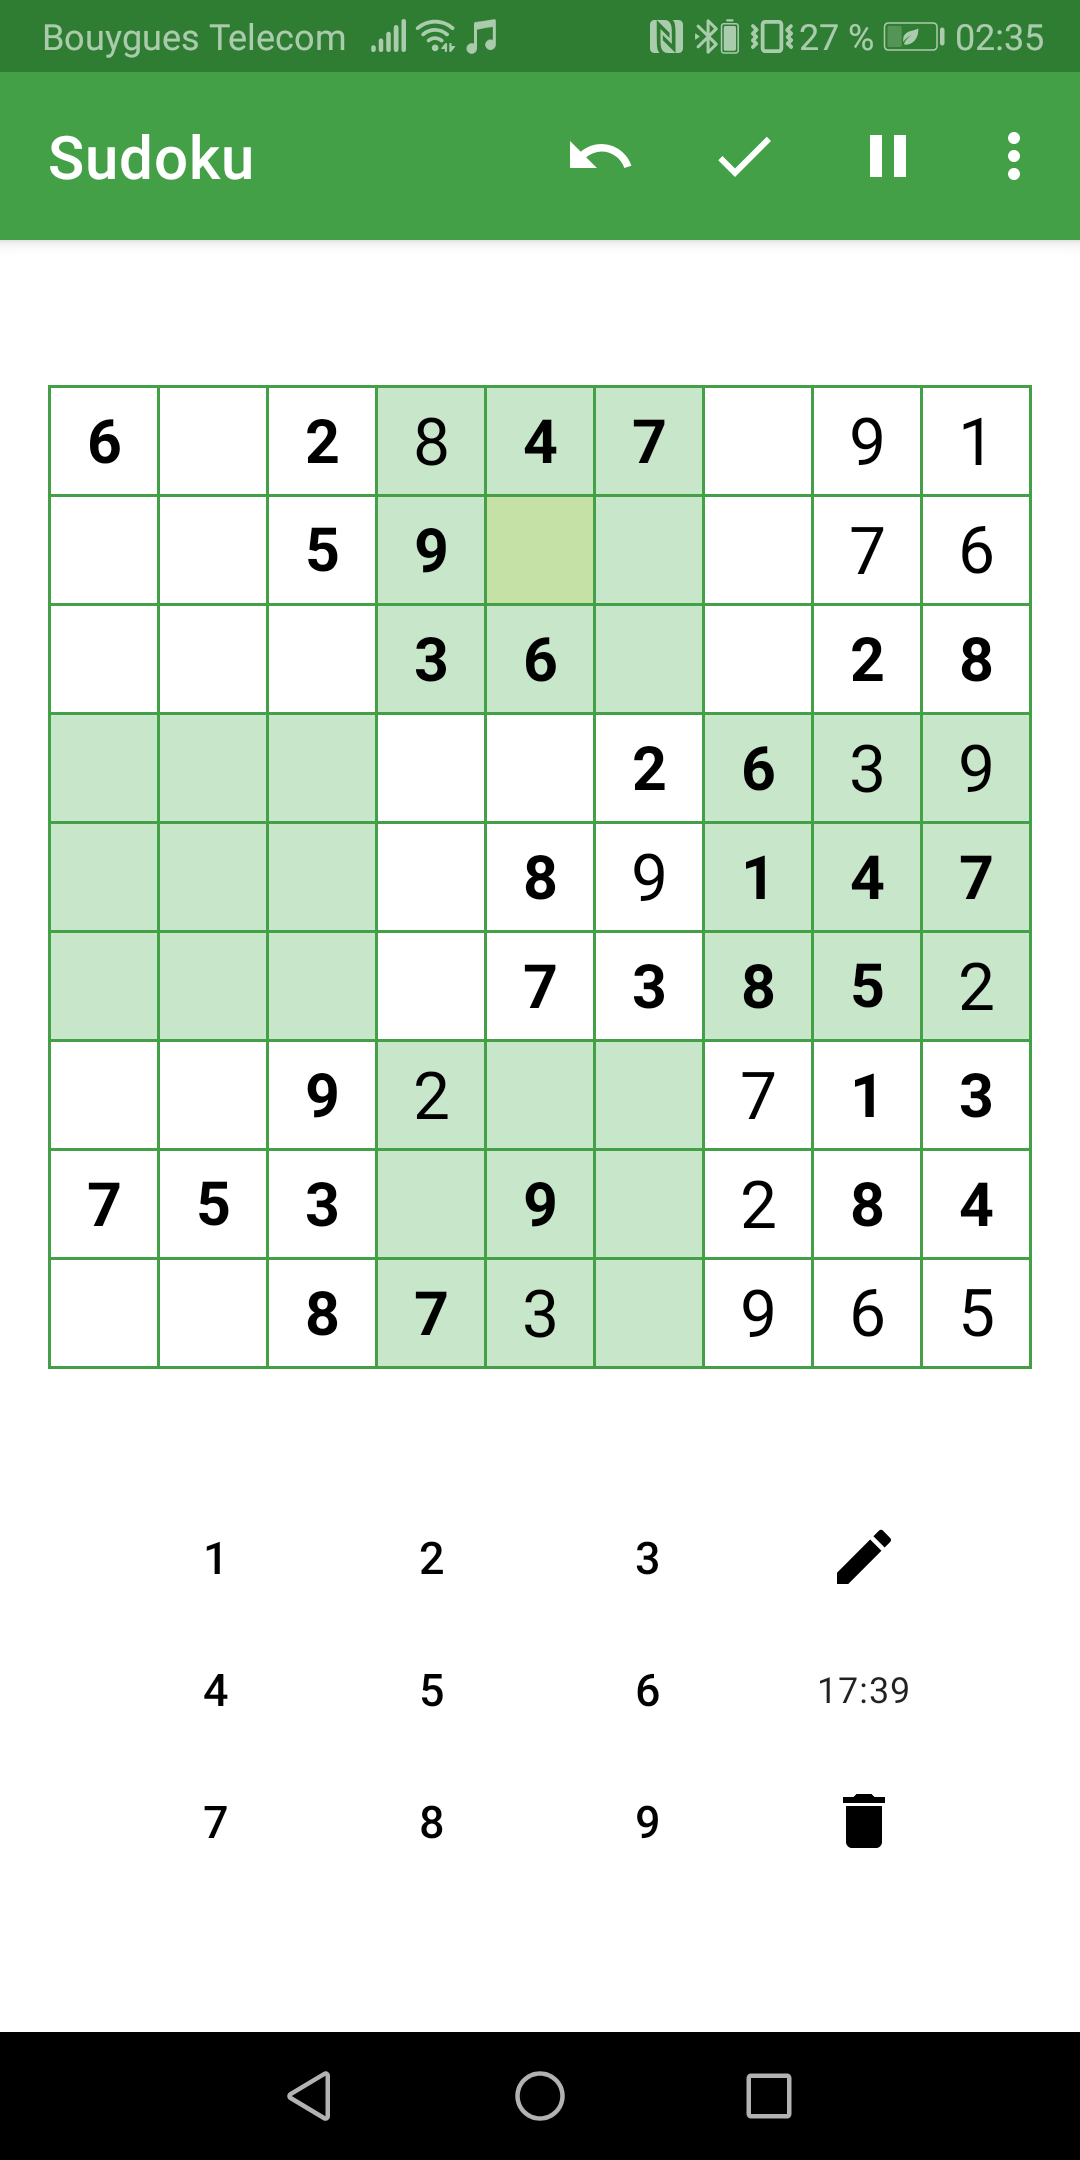
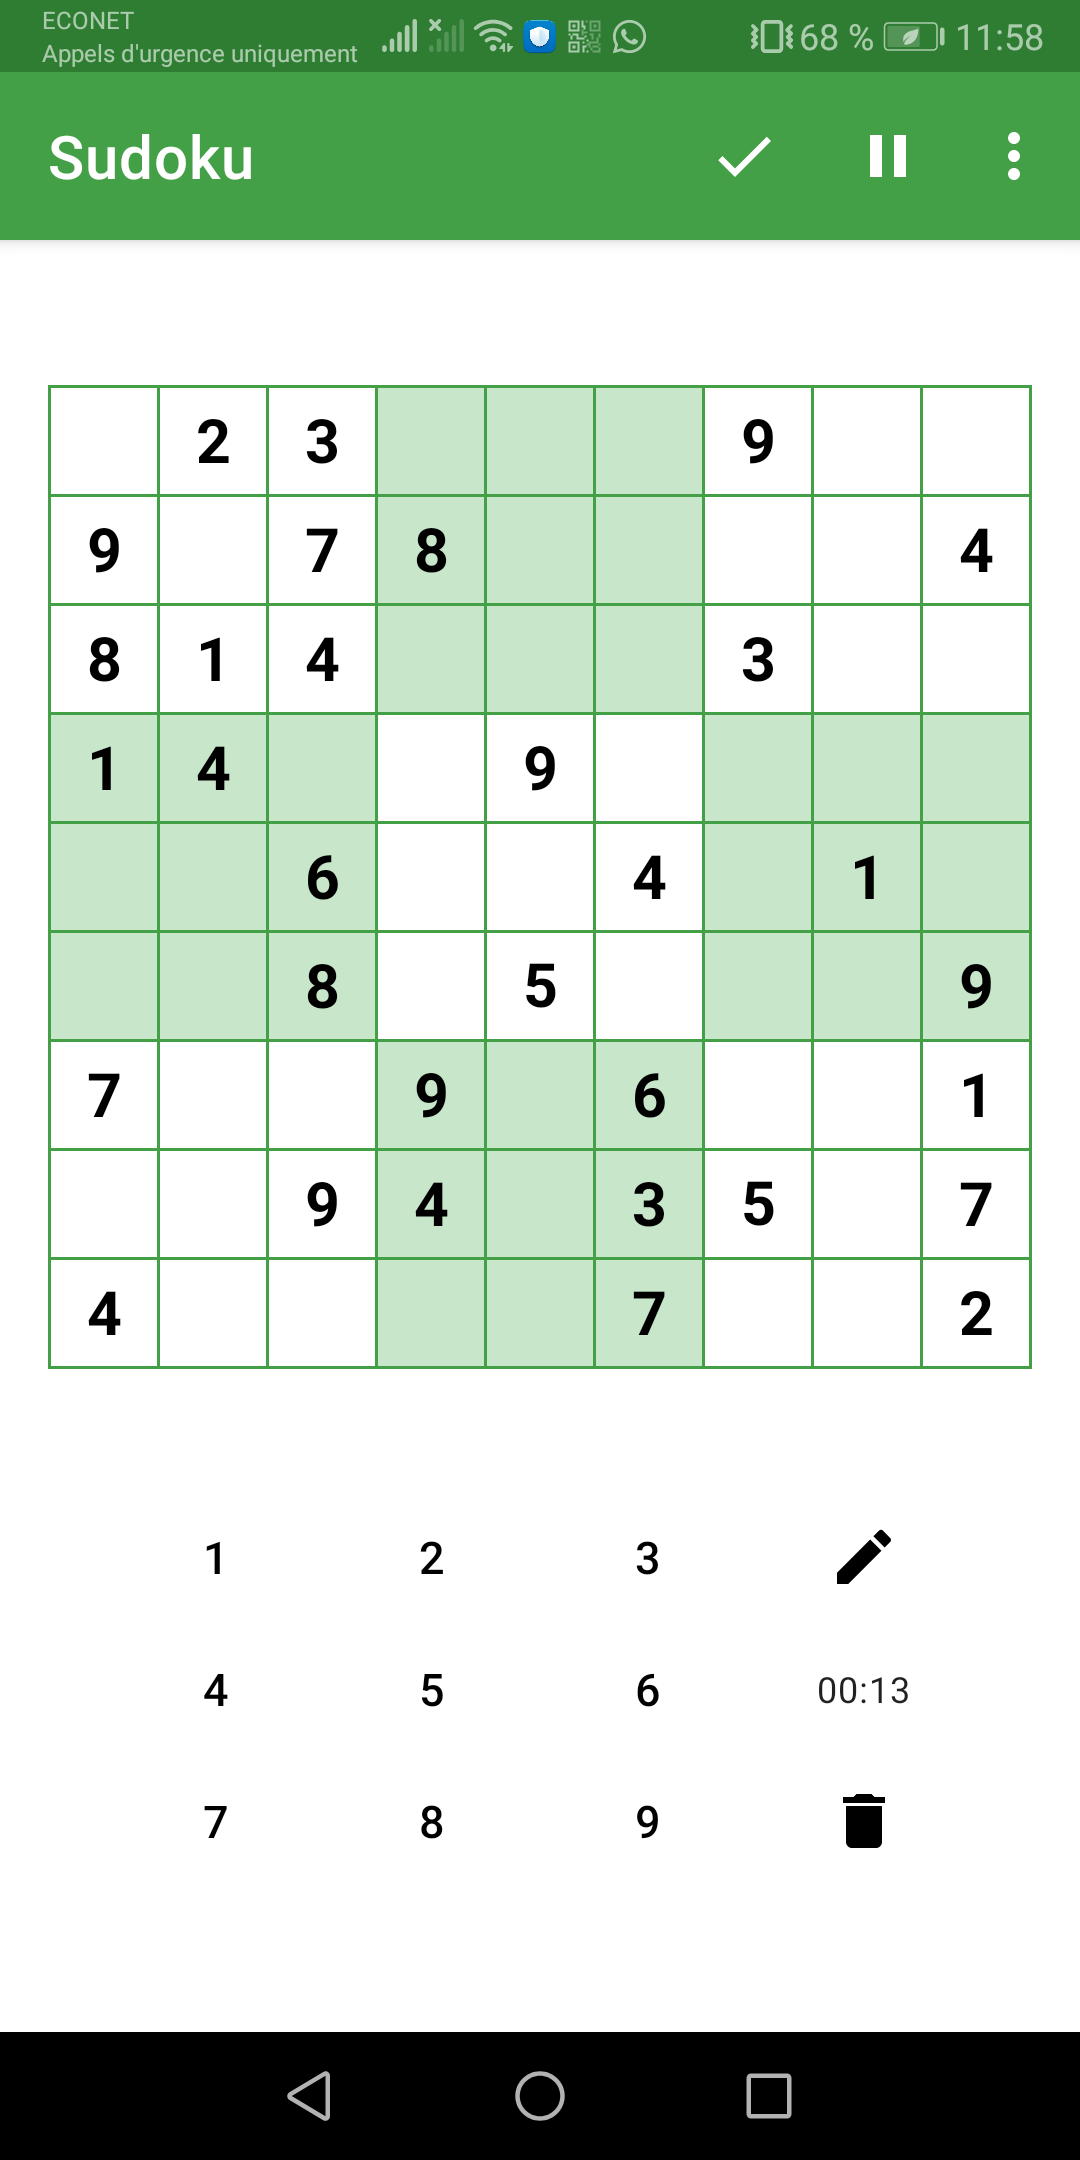
assets: sudoku database GUI: color coded the grid

diff --git a/gui/gui_solver.py b/gui/gui_solver.py
@@ -7,6 +7,7 @@ from src.solver import *
 from gui.util import *
 from src.android_solver import connect_device,disconnect_device,take_screenshot,tap,select_number
 from src.image_processing import *
+from src.read_sudoku import *
 
 
 ######################
@@ -106,10 +107,16 @@ def game_coordinates_to_data(x, y):
     else :
         return [-1,0,0]
 
-def key_selection(test, event,selected_case, android = None,device = None):
+def key_selection(test, event,selected_case, android = None,device = None, root_path=None):
     global current_state
-    if event.key == pygame.K_RIGHT:
-        pass
+    if event.key == pygame.K_r:
+        if root_path:
+            array = get_rand_grid(root_path=1)
+            copy_board(array)
+        else:
+            array = get_rand_grid()
+            copy_board(array)
+        define_unchangeables()
     elif event.key == pygame.K_KP1:
         test[selected_case[0] - 1][selected_case[1] - 1] = 1
         if android:
@@ -220,7 +227,7 @@ def draw_frame(screen, help_button = None,root_path = None):
                 font_obj = pygame.font.Font("assets/fonts/ARLRDBD.TTF", 32)
             else:
                 font_obj = pygame.font.Font("../assets/fonts/ARLRDBD.TTF", 32)
-            text_surface_obj = font_obj.render("help mode", True, WHITE)
+            text_surface_obj = font_obj.render("Solve", True, WHITE)
             text_rect_obj = text_surface_obj.get_rect()
             text_rect_obj.center = (help_mode_button[0] + 102, help_mode_button[1] + 35)
             screen.blit(text_surface_obj, text_rect_obj)
@@ -231,7 +238,7 @@ def draw_frame(screen, help_button = None,root_path = None):
                 font_obj = pygame.font.Font("assets/fonts/ARLRDBD.TTF", 32)
             else:
                 font_obj = pygame.font.Font("../assets/fonts/ARLRDBD.TTF", 32)
-            text_surface_obj = font_obj.render("help mode", True, BLACK)
+            text_surface_obj = font_obj.render("Solve", True, BLACK)
             text_rect_obj = text_surface_obj.get_rect()
             text_rect_obj.center = (help_mode_button[0] + 102, help_mode_button[1] + 35)
             screen.blit(text_surface_obj, text_rect_obj)
@@ -299,7 +306,16 @@ def draw_frame(screen, help_button = None,root_path = None):
         for column in range (9):
             if(default_board[line][column] != 0):
                 # if(not (line == selected_case[0] -1 and column == selected_case[1] -1)):
-                    text_surface_obj = font_obj.render(str(default_board[line][column]), True, BLACK)
+                    if(default[line][column] == 1):
+                        text_surface_obj = font_obj.render(str(default_board[line][column]), True, BLACK)
+                    else:
+                        number_in_case = default_board[line][column]
+                        if (check_double_in_column(number_in_case, column) or check_double_in_line(number_in_case,line)
+                        or check_double_in_square(number_in_case, line, column)):
+                            text_surface_obj = font_obj.render(str(default_board[line][column]), True, RED)
+                        else:
+                            text_surface_obj = font_obj.render(str(default_board[line][column]), True, GREEN)
+                        # check_if_number_in_square(number_in_case, )
                     text_rect_obj = text_surface_obj.get_rect()
                     x = column * 50 + 25 + frame_up_left_corner[0]
                     y = line * 50 + 25 + frame_up_left_corner[1]
@@ -315,7 +331,15 @@ def draw_frame(screen, help_button = None,root_path = None):
                 pygame.draw.line(screen, BLACK, [x -25, y],
                                  [x+25,y], 49)
                 if default_board[line][column] != 0 :
-                    text_surface_obj = font_obj.render(str(default_board[line][column]), True, WHITE)
+                    if(default[line][column] == 1):
+                        text_surface_obj = font_obj.render(str(default_board[line][column]), True,WHITE)
+                    else:
+                        number_in_case = default_board[line][column]
+                        if (check_double_in_column(number_in_case, column) or check_double_in_line(number_in_case,line)
+                        or check_double_in_square(number_in_case, line, column)):
+                            text_surface_obj = font_obj.render(str(default_board[line][column]), True, RED)
+                        else:
+                            text_surface_obj = font_obj.render(str(default_board[line][column]), True, GREEN)
                     text_rect_obj = text_surface_obj.get_rect()
                     text_rect_obj.center = (x, y)
                     text_rect_obj.height = 50
@@ -476,8 +500,12 @@ def launch_gui(event_th = True,android = None, root_path = None ):
 
     if root_path:
         pygame.display.set_icon(pygame.image.load("assets/Images/icon.png"))
+        rand_array = get_rand_grid(root_path=1)
+        copy_board(rand_array)
     else:
         pygame.display.set_icon(pygame.image.load("../assets/Images/icon.png"))
+        rand_array = get_rand_grid()
+        copy_board(rand_array)
     define_unchangeables()
 
 
@@ -485,7 +513,6 @@ def launch_gui(event_th = True,android = None, root_path = None ):
     done = False
     clock = pygame.time.Clock()
     moves = 0
-
     screen.fill(WHITE)
     if root_path:
         draw_frame(screen,root_path = 1)
@@ -580,7 +607,10 @@ def launch_gui(event_th = True,android = None, root_path = None ):
                 # if android:
                 #     key_selection(default_board, event, selected_case,android = 1, device = device)
                 # else:
-                    key_selection(default_board, event, selected_case)
+                   if root_path:
+                       key_selection(default_board, event, selected_case, root_path = 1)
+                   else:
+                       key_selection(default_board, event, selected_case)
         pygame.display.flip()
         clock.tick(60)
 

diff --git a/src/solver.py b/src/solver.py
@@ -95,6 +95,8 @@ test_result = [[9, 0, 0, 4, 0, 0, 0, 0, 0],
                [4, 0, 0, 2, 0, 0, 0, 8, 0]]
 
 def define_unchangeables():
+    global default
+    default.clear()
     for line in range (9):
         default.append([])
         for column in range (9):
@@ -115,6 +117,13 @@ def check_if_number_in_line(number, line):
     for i in range (9):
         result = result or default_board[line][i] == number
     return result
+def check_double_in_line(number, line):
+    global default_board
+    count = 0
+    for i in range (9):
+        if default_board[line][i] == number:
+            count += 1
+    return count >= 2
 
 def check_if_number_in_column(number, column):
     global default_board
@@ -122,6 +131,15 @@ def check_if_number_in_column(number, column):
     for i in range (9):
         result = result or default_board[i][column] == number
     return result
+
+def check_double_in_column(number, column):
+    global default_board
+    count = 0
+    for i in range(9):
+        if default_board[i][column] == number:
+            count += 1
+    return count >= 2
+
 
 def check_if_number_in_square(number, square):
     global default_board
@@ -132,6 +150,18 @@ def check_if_number_in_square(number, square):
         for j in range(3):
             result = result or default_board[starting_line + i][starting_column + j] == number
     return result
+def check_double_in_square(number, line, column):
+    global default_board
+    square = (line //3) * 3 + (column//3)
+    starting_line = int( square/3) * 3
+    starting_column = int(square%3) * 3
+    count = 0
+    for i in range (3):
+        for j in range(3):
+            if default_board[starting_line + i][starting_column + j] == number:
+                count += 1
+    return count >= 2
+
 
 def check_by_each_number():
     list_possibilities = []

diff --git a/src/read_sudoku.py b/src/read_sudoku.py
@@ -1,0 +1,51 @@
+import sys
+from random import seed
+from random import randint
+
+
+
+def get_grid(line_number, root_path=None):
+    # # with open('../assets/sudoku.csv') as f:
+    # with open('assets/sudoku.csv') as f:
+    #     lines = f.readlines()
+    path = ""
+    if root_path:
+        path = 'assets/sudoku.csv'
+    else:
+        path = '../assets/sudoku.csv'
+    with open(path) as fp:
+        for i, line in enumerate(fp):
+            if i == line_number:
+                lines = line
+    # file = open('../assets/sudoku.csv')
+    # lines = file.readline()
+    # print(lines)
+    sudoku=[]
+    for i in range (9):
+        sudoku.append([lines [i*9:(i*9)+9]])
+        # sudoku.append([lines [line_number] [i*9:(i*9)+9]])
+        for j in  range(9):
+            sudoku[-1].append(int (sudoku[-1][0][j]))
+        sudoku[-1].pop(0)
+    # for k in sudoku:
+    #     print (k)
+    return sudoku
+
+def get_rand_grid(root_path =None):
+    number = randint(1,1000000)
+    print (number)
+    if root_path:
+        return get_grid(number, root_path = 1)
+    else:
+        return get_grid(number)
+def main():
+    print (get_grid(2))
+    # array = get_rand_grid()
+    # for i in array:
+    #     print (i)
+
+
+
+
+if __name__ == "__main__":
+    main()

diff --git a/main_using_multiprocessing.py b/main_using_multiprocessing.py
@@ -1,5 +1,5 @@
 import threading
-from multiprocessing import Process
+import multiprocessing as mp
 from tkinter import *
 import time
 import sys
@@ -19,7 +19,7 @@ exit_event.set()
 def process_android_solver():
     def launch_from_root():
         launch(path_root=1)
-    Process(target=launch_from_root()).start()
+    mp.Process(target=launch_from_root()).start()
 
 
 def random_grid():
@@ -37,7 +37,7 @@ def process_gui_solver(root):
 
     if (len(list_processes) == 0):
         root.geometry("300x170")
-        p1 = Process(target=random_grid)
+        p1 = mp.Process(target=random_grid)
         list_processes.append(p1)
         p1.daemon = True
         p1.start()
@@ -56,7 +56,7 @@ def process_gui_solver_from_device():
 
 
     if (len(list_processes_from_device) == 0):
-        p1 = Process(target=from_device)
+        p1 = mp.Process(target=from_device)
         p1.daemon = True
         list_processes_from_device.append(p1)
         p1.start()
@@ -163,6 +163,8 @@ def launch_main():
 
 
 def main():
+    print( mp.get_all_start_methods())
+
     main_process =  threading.Thread(target=launch_main())
     main_process.start()
 
